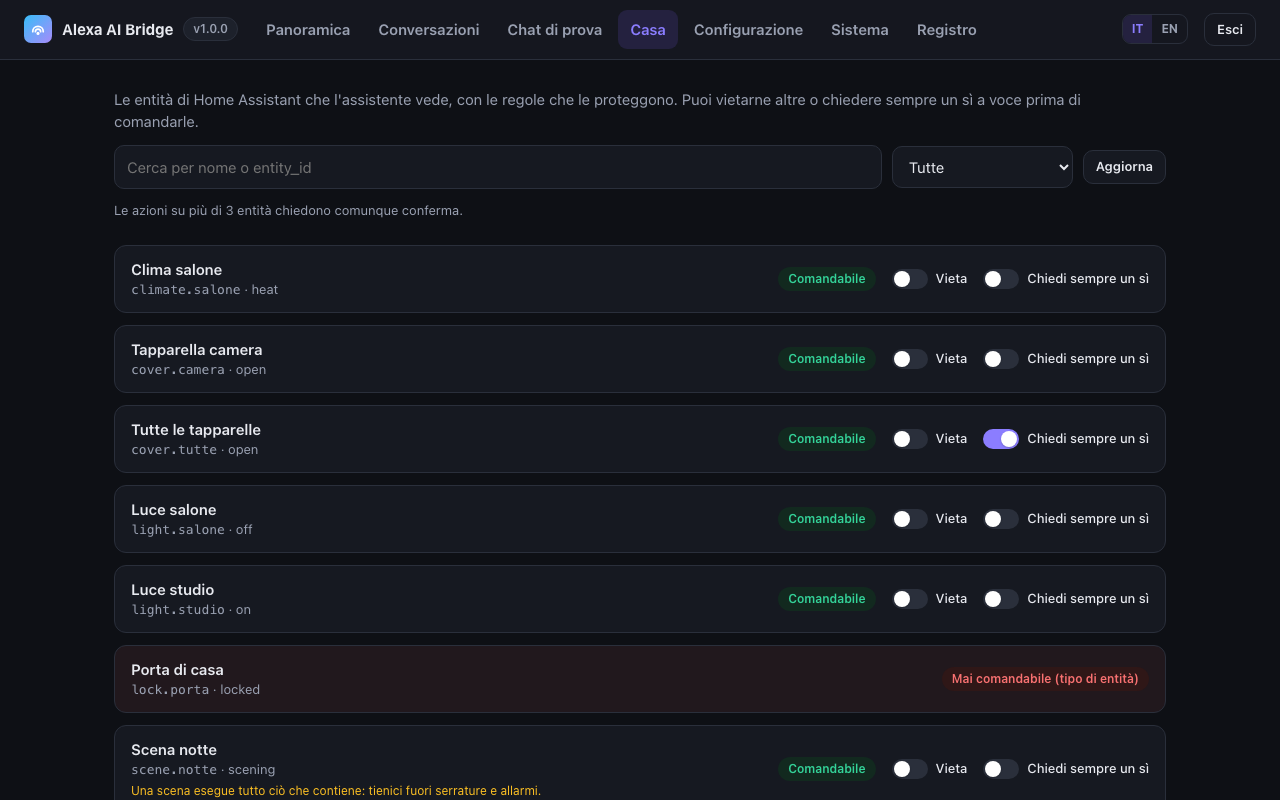
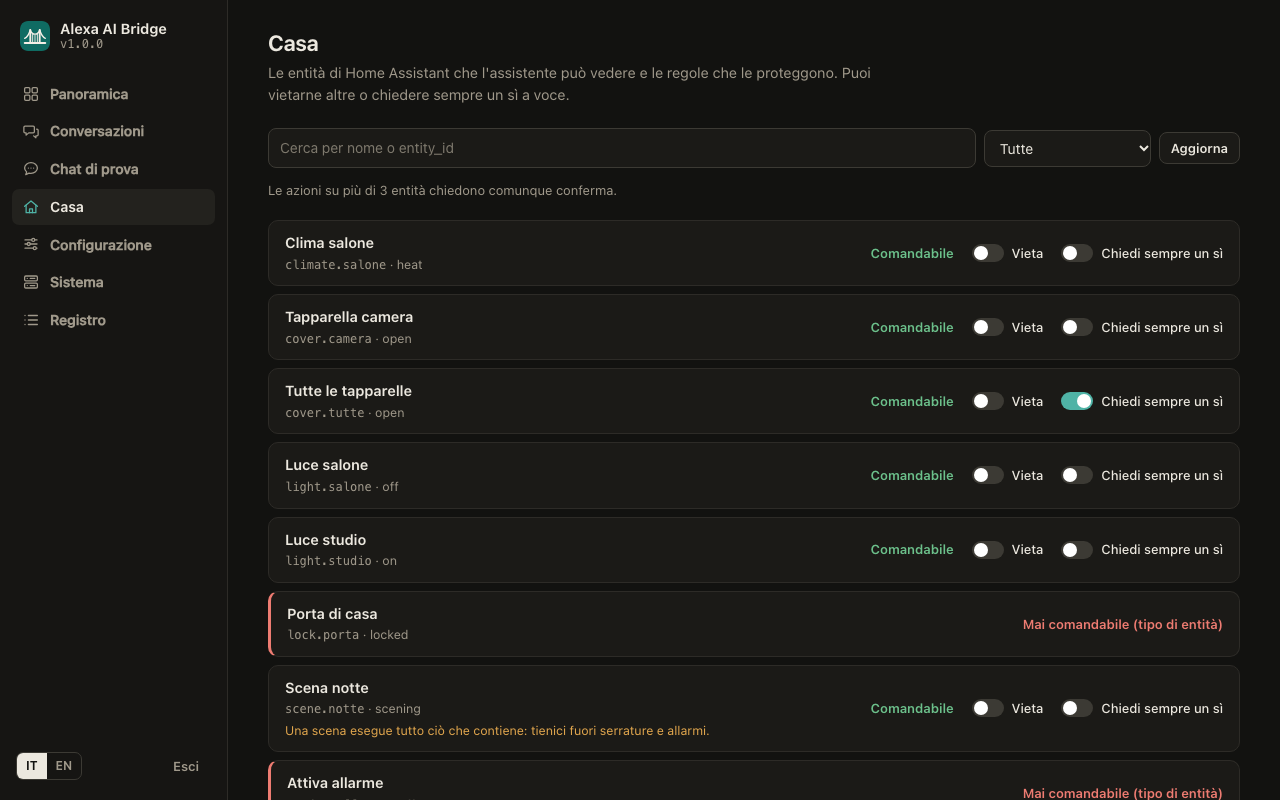
Docs and changelog for 1.1.0: two languages in one skill, model versioning

diff --git a/docs/alexa-skill.md b/docs/alexa-skill.md
@@ -11,6 +11,25 @@ Paste it into **Build → Interaction Model → JSON Editor**, then **Save** and
 both files for download (**Sistema**). For English locales other than US (UK, Canada, Australia, India), add the
 locale in the console and paste the same English model.
 
+## One skill, both languages
+
+With `LANGUAGE=auto` (the default) the service answers in the language of each request: Alexa tells it which locale
+the Echo speaks. To make one skill speak Italian and English:
+
+1. In the console, **Build → Languages** (*Language settings*) → add **English (US)** (and any other English locale).
+2. Switch the language selector at the top of the console to English (US) → **Interaction Model → JSON Editor** →
+   paste [`skill/interaction-model.en-US.json`](../skill/interaction-model.en-US.json) → **Save** → **Build skill**.
+3. The endpoint is shared by every language: nothing else to set.
+
+An Italian Echo opens it with *"Alexa, apri cervellone"*, an English one with *"Alexa, open big brain"*. Test the
+English side in the simulator by choosing **English (US)** next to the text box.
+
+## Keeping the interaction model up to date
+
+The models in [`skill/`](../skill/) are versioned with the service. Every release in the
+[changelog](../CHANGELOG.md) says whether they changed. Only then download the new file (admin page → **Sistema**, or
+from the repository), paste it in the JSON Editor of each language, **Save** and **Build skill**.
+
 ## Intents
 
 | Intent | Samples | What the service does |

diff --git a/CHANGELOG.md b/CHANGELOG.md
@@ -1,5 +1,23 @@
 # Changelog
 
+## 1.1.0
+
+**Interaction model: unchanged** (nothing to do in the Alexa console; to add English, see below).
+
+- **One skill, two languages**: `LANGUAGE=auto`, now the default, answers in the language each Echo speaks. Add
+  English (US) to the skill and paste `skill/interaction-model.en-US.json` there
+  ([guide](docs/alexa-skill.md#one-skill-both-languages)). `LANGUAGE=it` or `en` still forces one.
+- **Admin page redesigned**: side navigation with icons, calmer look, a new logo. The test chat answers in the
+  language of the page.
+- **Model picker**: the settings list the models your provider offers (from its `/models` endpoint), with *Other…*
+  to type any name.
+- Every setting shows its default value next to it; menus show readable choices.
+- The conversation history is kept in the data volume: it survives restarts and updates, and includes the test chat
+  and `scripts/e2e.py`.
+- The old `LLM_FORMAT` setting is shown as the API format; an empty choice shows the default in use.
+- `BRIDGE_PORT` chooses the host port when 8090 is already taken.
+- Docs: Cloudflare Tunnel setup, and the wildcard certificate option to pick in the Alexa console behind Cloudflare.
+
 ## 1.0.0
 
 First release with a prebuilt Docker image for amd64 and arm64: `ghcr.io/lucatomei/alexa-ai-bridge`.

diff --git a/docs/setup.md b/docs/setup.md
@@ -74,7 +74,7 @@ nano .env        # or any editor
 In `.env`, set at least:
 
 - `SKILL_ID`: the ID from step 1;
-- `LANGUAGE`: `it` or `en`, the language of the model you pasted;
+- `LANGUAGE`: `auto` (the default) answers in the language of each request, so Italian and English both work;
 - **one model block**: `LLM_API`, `LLM_BASE_URL`, `LLM_API_KEY`, `LLM_MODEL`. Claude is active by default; to use
   another provider, comment out the Claude lines and uncomment another block ([all presets](providers.md));
 - `PUBLIC_HOST`: your DNS name, if you will use the bundled Caddy in step 3;
@@ -314,7 +314,7 @@ All variables go in `.env`. Only `SKILL_ID`, `LLM_BASE_URL` and `LLM_MODEL` are 
 | Variable | Default | Meaning |
 |---|---|---|
 | `SKILL_ID` | – | Only requests for this skill are accepted |
-| `LANGUAGE` | `it` | Language of the assistant: `it` or `en`; use the interaction model of the same language |
+| `LANGUAGE` | `auto` | Language of the assistant: `auto` (the language the Echo speaks), `it` or `en` |
 | `PUBLIC_HOST` | `alexa.example.com` | DNS name used by the bundled Caddy (`--profile caddy`) |
 | `BRIDGE_VERSION` | `latest` | Image version to run: `latest`, a major (`1`) or an exact version (`1.0.0`) |
 | `COMPOSE_PROFILES` | – | Optional containers started by `docker compose up`, e.g. `caddy,searxng` |

diff --git a/docs/admin.md b/docs/admin.md
@@ -86,9 +86,10 @@ docker compose exec alexa-ai-bridge rm /data/admin-password
 
 ## Conversation history
 
-Kept **in memory only**: it is lost at every restart and never written to disk. `ADMIN_HISTORY` sets how many
-questions are kept (default `100`); `ADMIN_HISTORY=0` turns the history off. Amazon user IDs are replaced by a
-short anonymous code.
+Kept in the data volume (`/data/history.json`), so it survives restarts, settings saves and updates, and it collects
+the questions from Alexa, the test chat and `scripts/e2e.py` (marked *Test e2e*). `ADMIN_HISTORY` sets how many
+questions are kept (default `100`); `ADMIN_HISTORY=0` turns the history off and nothing is written. Amazon user IDs
+are replaced by a short anonymous code. *Svuota* deletes it. Without a writable data folder it is kept in memory only.
 
 ## How saved settings work
 

diff --git a/skill/README.md b/skill/README.md
@@ -1,0 +1,13 @@
+# Interaction models
+
+| File | Console language | Invocation |
+|---|---|---|
+| `interaction-model.it-IT.json` | Italian (IT) | *"Alexa, apri cervellone"* |
+| `interaction-model.en-US.json` | English (US), or any English locale | *"Alexa, open big brain"* |
+
+Paste each one in **Build → Interaction Model → JSON Editor** of the matching language, then **Save** and
+**Build skill**. With `LANGUAGE=auto` one skill can have both. The admin page offers them for download (**Sistema**).
+
+They are versioned with the service: each release in [`CHANGELOG.md`](../CHANGELOG.md) says whether they changed
+(*Interaction model: unchanged* means there is nothing to do in the Alexa console). Guide:
+[`docs/alexa-skill.md`](../docs/alexa-skill.md).

diff --git a/README.md b/README.md
@@ -33,8 +33,8 @@ can read and control your home through Home Assistant within strict limits that 
 > 🗣 *"Che tempo fa domani?"* — 🔊 *"Domani sole al mattino, nuvole dal pomeriggio e massima di 21 gradi."*<br>
 > 🗣 *"Accendi la luce dello stanzino."* — 🔊 *"Fatto."* — 🗣 *"Spegnila."* — 🔊 *"Spenta."*
 
-The assistant speaks **Italian or English** (`LANGUAGE=it` or `en`): both interaction models are included, and the
-admin page has an IT / EN switch too.
+The assistant speaks **Italian and English**: it answers in the language each Echo speaks, so one skill can serve
+both (both interaction models are included), and the admin page has an IT / EN switch too.
 
 ## Demo
 
